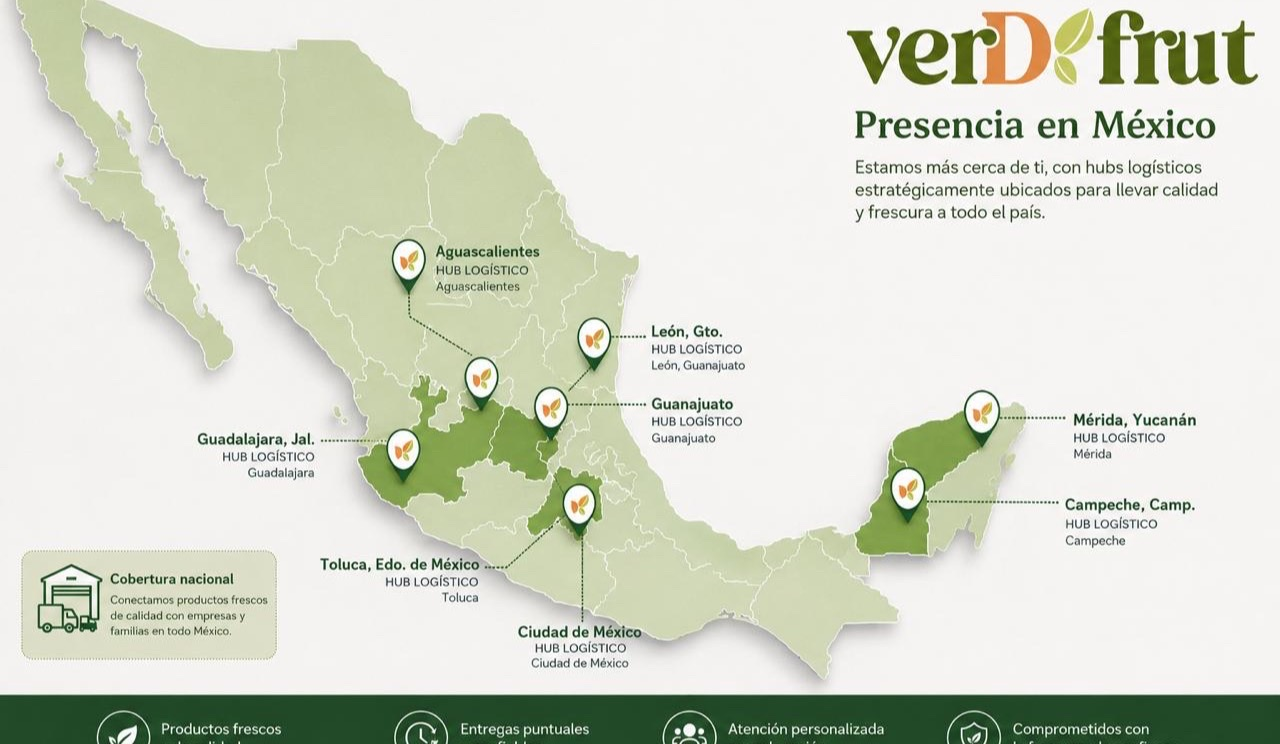
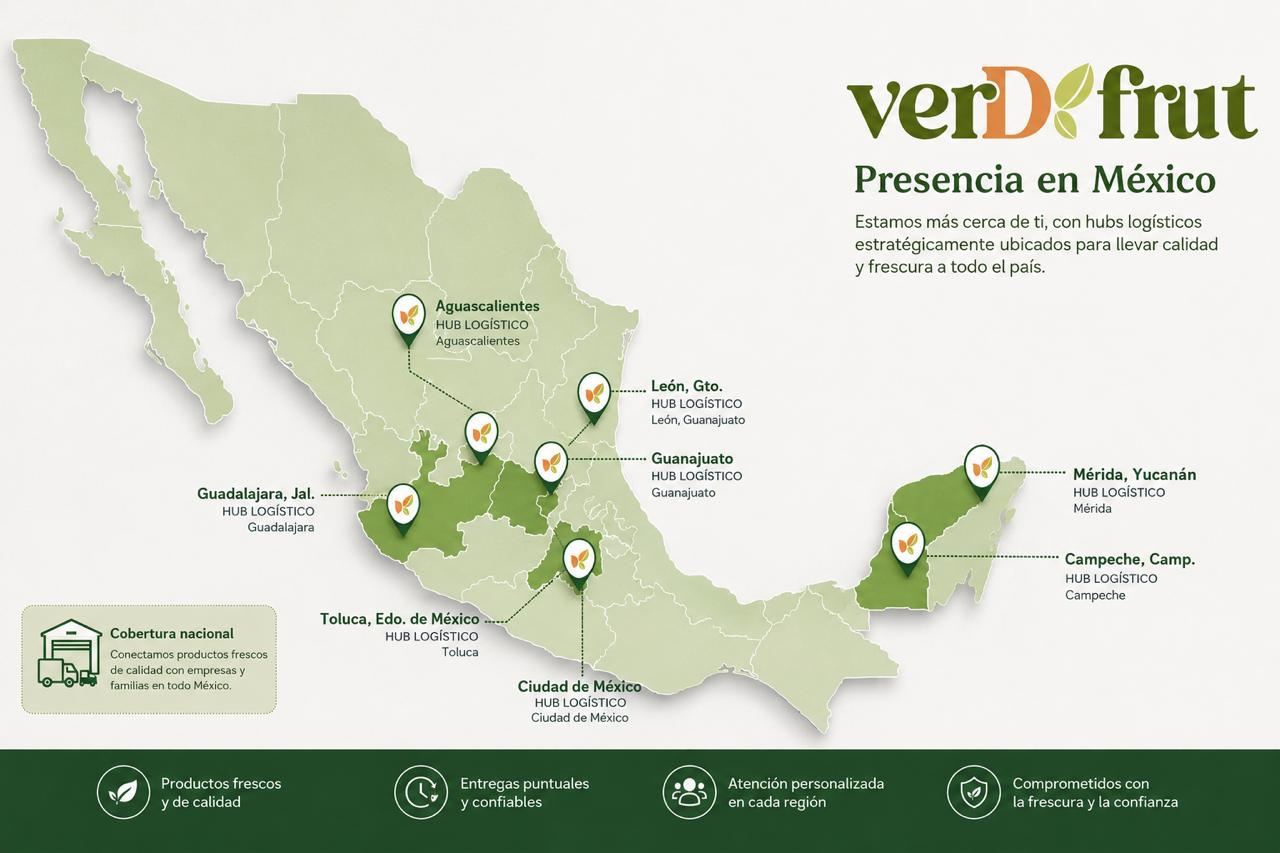
El mapa de cobertura se muestra completo
El recorte del archivo (744 de 853px) buscaba quitar la barra verde
inferior, pero caía dentro de ella y la partía a la mitad: se veían los
iconos y el texto cortados.

Se regenera del original sin recortar (1280x853). El contenedor ya no
forzaba ningún encuadre, así que la imagen se muestra entera.

De paso equilibra la sección: las dos columnas quedan en 581 y 565px.

diff --git a/index.html b/index.html
@@ -343,7 +343,7 @@
     <div class="coverage-grid">
 
       <figure class="coverage-map">
-        <img src="assets/cobertura-mapa.jpg" width="1280" height="744" loading="lazy"
+        <img src="assets/cobertura-mapa.jpg" width="1280" height="853" loading="lazy"
              alt="Mapa de México con los ocho hubs logísticos de VERDFRUT">
         <!-- Los nombres van también como texto: en la imagen no se pueden
              seleccionar, no los lee un buscador ni un lector de pantalla -->
